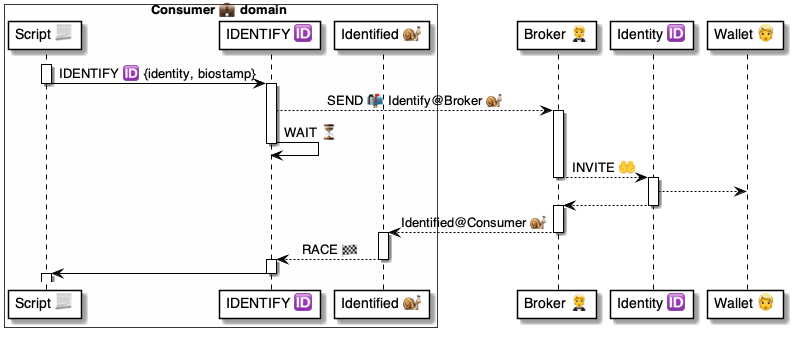
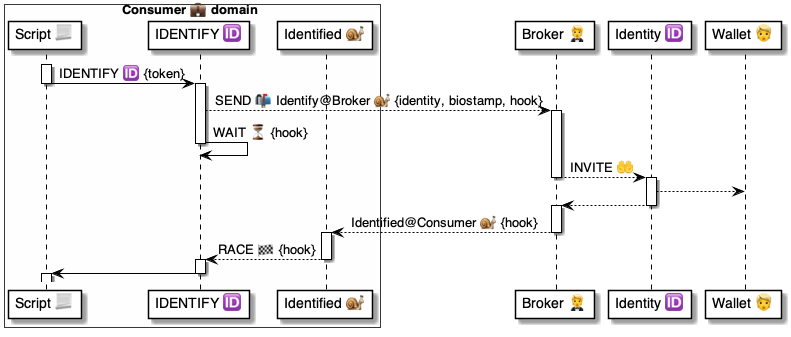
.

diff --git a/4 ⚙ Solution/41 🎭 Domain Roles/Consumers 💼/💼⌘ Consumer cmds/IDENTIFY 🆔/🆔 IDENTIFY ⌘ cmd.md b/4 ⚙ Solution/41 🎭 Domain Roles/Consumers 💼/💼⌘ Consumer cmds/IDENTIFY 🆔/🆔 IDENTIFY ⌘ cmd.md
@@ -2,3 +2,28 @@
 
 > About
 * Implemented by the [`IDENTIFY` 📃 script](<🆔 IDENTIFY 📃 script.md>)
+
+## FAQ
+
+1. **How to use IDENTIFY with a [Token 🎫](<../../../../30 🧩 Data/Tokens 🎫/🎫 Token/🎫 Token.md>)?**
+
+    ```yaml
+    # With a token
+    - VERIFY: $token
+    - IDENTIFY: $token
+    ```
+
+    ---
+    <br/>
+
+1. **How to use IDENTIFY with an [Identity 🆔 domain](<../../../../50 🫥 Agent domains/Identities 🆔/🆔 Identity agent/🆔 Identity 🫥 agent.md>) biostamp?**
+
+    ```yaml
+    # With identity and biostamp
+    - IDENTIFY:
+        Identity: any-identity.dom
+        Biostamp: <biostamp-uuid>
+    ```
+
+    ---
+    <br/>

diff --git a/4 ⚙ Solution/20 🧑🦰 UI/Brokers 🤵/🤵🪣 Broker tables/Identifies 🆔 table/🪣 Identifies/🤵 Broker.Identifies 🪣 table.md b/4 ⚙ Solution/20 🧑🦰 UI/Brokers 🤵/🤵🪣 Broker tables/Identifies 🆔 table/🪣 Identifies/🤵 Broker.Identifies 🪣 table.md
@@ -1,0 +1,24 @@
+# 🤵 Broker.Identifies 🪣 table
+
+## Schema
+
+Here's the [Itemized 🛢 dataset](<../../../../../30 🧩 Data/Datasets 🪣/🪣🔣 Dataset types/Itemized 🛢 dataset.md>) schema.
+
+```yaml
+Prefix: Broker
+Table: Identifies
+Item: Identify
+Key: Identify, Consumer
+```
+
+<br/>
+
+## Example
+
+Here's a [`READ`](<../../../../../37 Scripts 📃/📃 Commands ⌘/⌘ for datasets 🪣/READ 🧲/🧲 READ ⌘ cmd.md>) example.
+
+```yaml
+# Key fields
+Identify: <identify-uuid>    # Consumer hook
+Consumer: any-consumer.dom   # Consumer domain
+```

diff --git a/4 ⚙ Solution/41 🎭 Domain Roles/Consumers 💼/💼⌘ Consumer cmds/IDENTIFY 🆔/🆔 IDENTIFY 📃 script.md b/4 ⚙ Solution/41 🎭 Domain Roles/Consumers 💼/💼⌘ Consumer cmds/IDENTIFY 🆔/🆔 IDENTIFY 📃 script.md
@@ -29,9 +29,14 @@
 ```yaml
 📃 .IDENTITY:
 
-# Assert the chat and identity inputs
+# Assert the chat
+- ASSERT $.Chat:
+    Error: CHAT missing
+
+# Assert the identity inputs
 - ASSERT $.Inputs:
-    AllOf: $.Chat, Identity, Biostamp
+    Error: Invalid IDENTITY inputs
+    AllOf: Identity, Biostamp
     UUIDs: Biostamp
     Identity.IsDomain:
 
